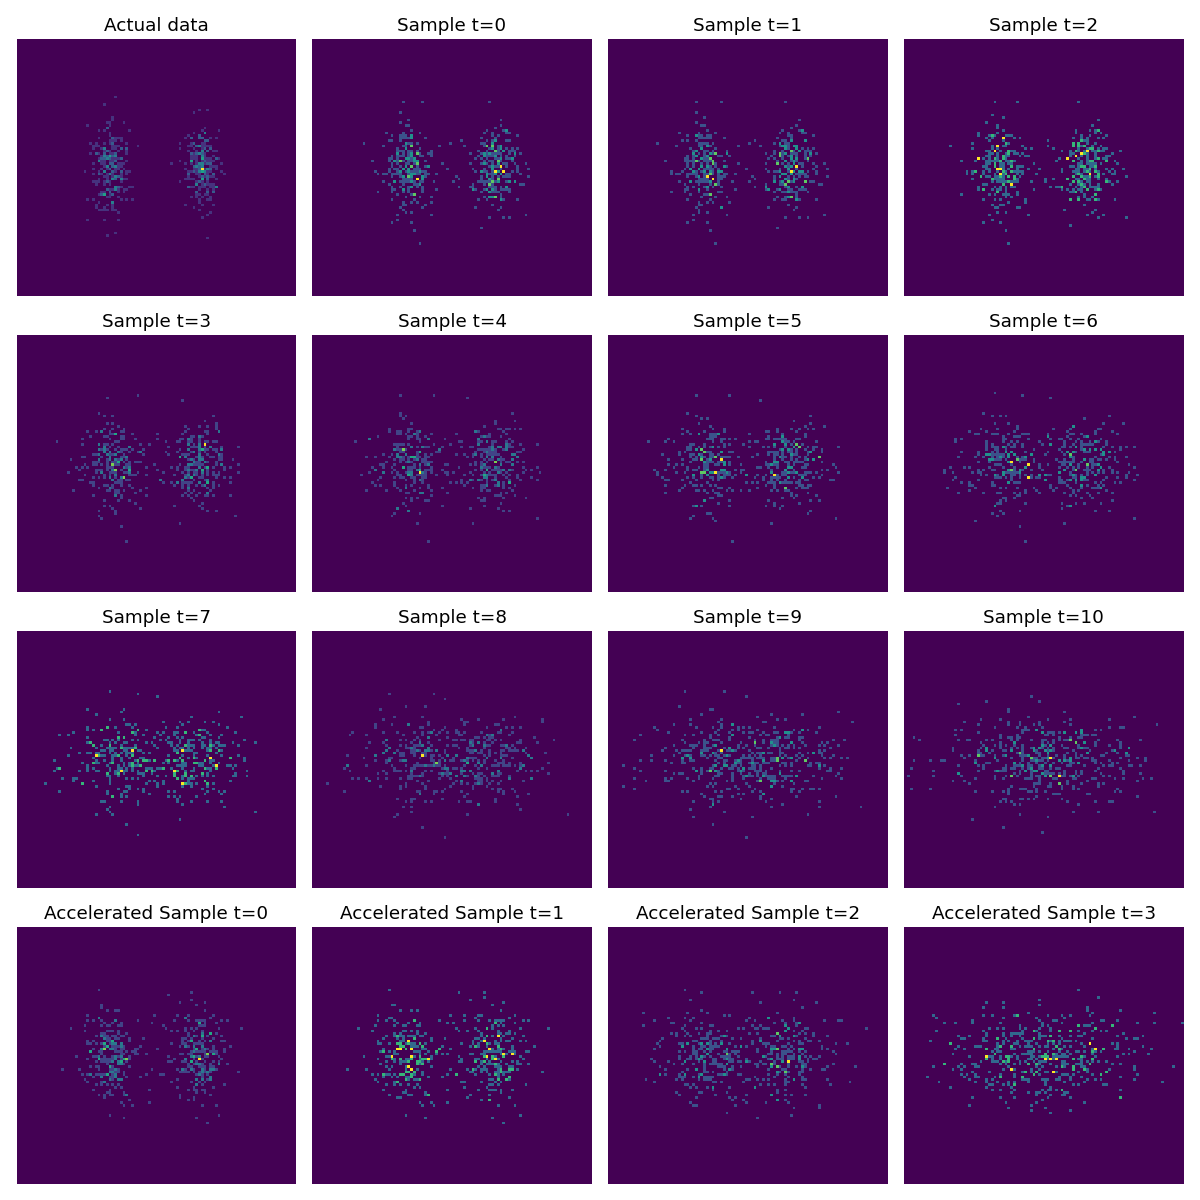
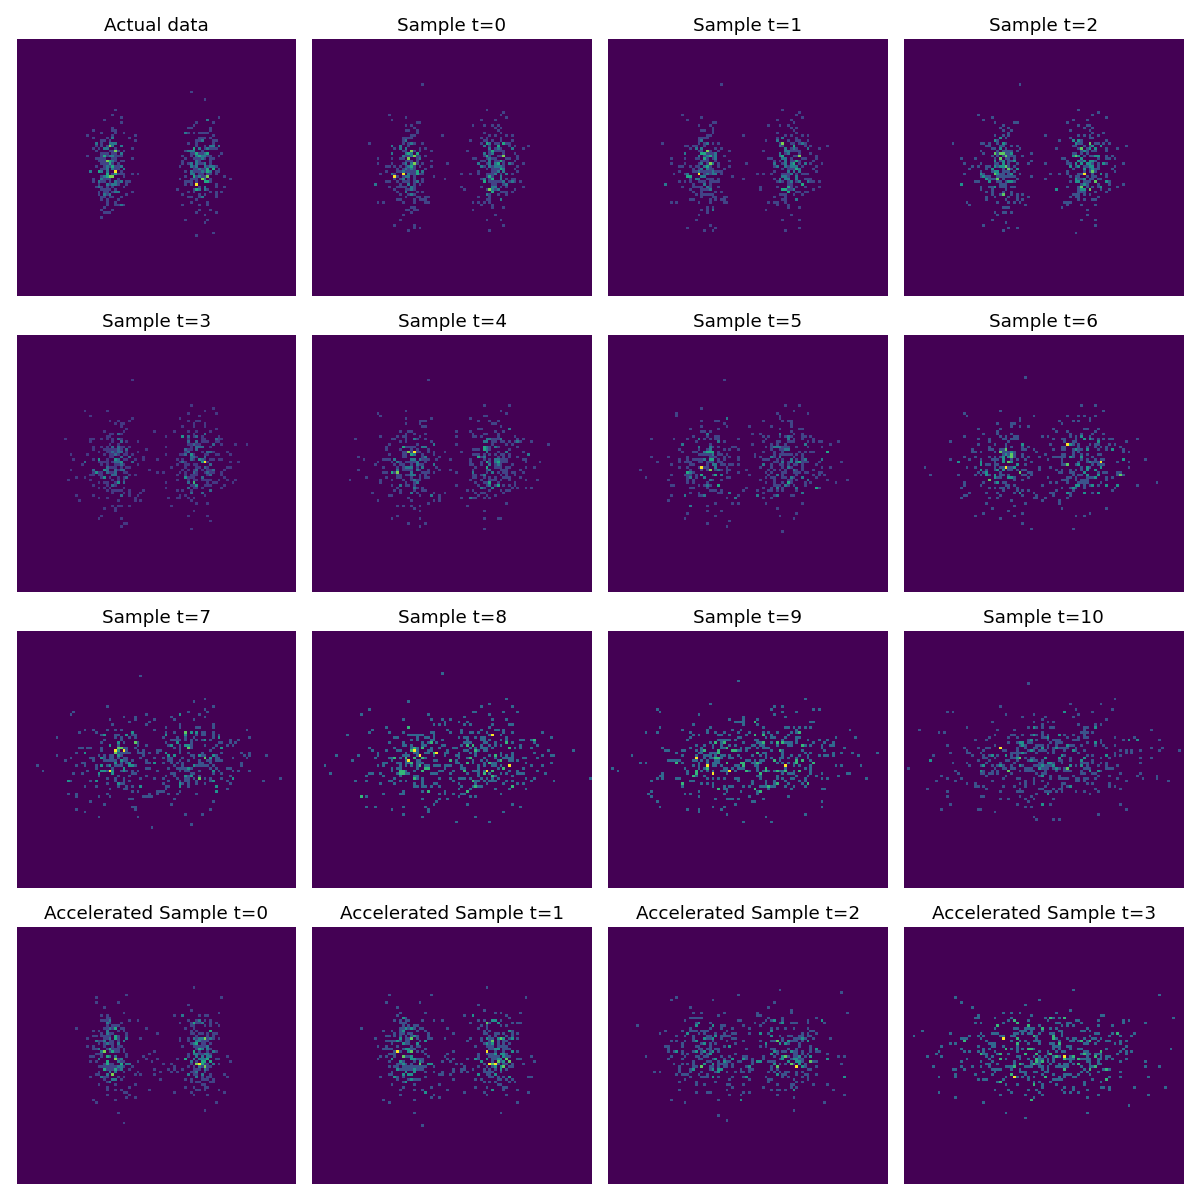
Bump to DDIM formulation by default.

diff --git a/src/models.py b/src/models.py
@@ -1,6 +1,5 @@
 from dataclasses import dataclass
 import math
-from typing import Tuple
 
 import torch
 import torch.nn as nn
@@ -11,51 +10,61 @@ from src.blocks import unsqueeze_to
 @dataclass(frozen=True)
 class DiffusionModelConfig:
 
+    num_timesteps: int
     target_type: str = "pred_eps"
-    sigma_type: str = "upper_bound"
-    noise_schedule_type: str = "linear"
+    noise_schedule_type: str = "cosine"
     loss_type: str = "l2"
+    gamma_type: float = "ddim"
 
     def __post_init__(self):
+        assert self.num_timesteps > 0
         assert self.target_type in ("pred_x_0", "pred_eps", "pred_v")
-        assert self.sigma_type in ("lower_bound", "upper_bound")
         assert self.noise_schedule_type in ("linear", "cosine")
         assert self.loss_type in ("l1", "l2")
+        assert self.gamma_type in ("ddim", "ddpm")
 
 
 class DiffusionModel(nn.Module):
 
     def __init__(
         self,
-        num_timesteps: int,
-        input_shape: Tuple,
+        input_shape: tuple,
         nn_module: nn.Module,
         config: DiffusionModelConfig,
     ):
         super().__init__()
         self.input_shape = input_shape
-        self.num_timesteps = num_timesteps
         self.nn_module = nn_module
+        self.num_timesteps = config.num_timesteps
         self.target_type = config.target_type
-        self.sigma_type = config.sigma_type
+        self.gamma_type = config.gamma_type
         self.noise_schedule_type = config.noise_schedule_type
         self.loss_type = config.loss_type
 
         # Input shape must be either (c,) or (c, h, w)
         assert len(input_shape) in (1, 3)
 
+        # Construct the noise schedule
         if self.noise_schedule_type == "linear":
-            beta = torch.linspace(1e-4, 2e-2, num_timesteps + 1)
-        if self.noise_schedule_type == "cosine":
-            rng = torch.arange(num_timesteps + 1)
-            f_t = torch.cos((rng / num_timesteps + 0.008) / (1 + 0.008) * math.pi / 2) ** 2
-            bar_alpha = f_t / f_t[0]
-            beta = torch.zeros_like(bar_alpha)
-            beta[1:] = (1 - (bar_alpha[1:] / bar_alpha[:-1])).clip(0, 0.999)
+            beta_t = torch.linspace(1e-4, 2e-2, self.num_timesteps + 1)
+            alpha_t = torch.cumprod(1 - beta_t, dim=0) ** 0.5
+        elif self.noise_schedule_type == "cosine":
+            linspace = torch.linspace(0, 1, self.num_timesteps + 1)
+            f_t = torch.cos((linspace + 0.008) / (1 + 0.008) * math.pi / 2) ** 2
+            bar_alpha_t = f_t / f_t[0]
+            beta_t = torch.zeros_like(bar_alpha_t)
+            beta_t[1:] = (1 - (bar_alpha_t[1:] / bar_alpha_t[:-1])).clamp(min=0, max=0.999)
+            alpha_t = torch.cumprod(1 - beta_t, dim=0) ** 0.5
+        else:
+            raise AssertionError(f"Invalid {self.noise_schedule_type=}.")
 
-        # These tensors are shape (num_timesteps + 1, 1, 1, 1) if 2D or (num_timesteps + 1, 1) if 1D
-        beta = unsqueeze_to(beta, len(self.input_shape) + 1)
-        self.register_buffer("bar_alpha", torch.cumprod(1 - beta, dim=0))
+        # These tensors are shape (num_timesteps + 1, *self.input_shape)
+        # For example, 2D: (num_timesteps + 1, 1, 1, 1)
+        #              1D: (num_timesteps + 1, 1)
+        alpha_t = unsqueeze_to(alpha_t, len(self.input_shape) + 1)
+        sigma_t = (1 - alpha_t ** 2).clamp(min=0) ** 0.5
+        self.register_buffer("alpha_t", alpha_t)
+        self.register_buffer("sigma_t", sigma_t)
 
     def loss(self, x):
         """
@@ -66,96 +75,89 @@ class DiffusionModel(nn.Module):
         bsz = len(x)
         t_sample = torch.randint(1, self.num_timesteps + 1, size=(bsz,), device=x.device)
         eps = torch.randn_like(x)
-        x_t = (
-            torch.sqrt(self.bar_alpha[t_sample]) * x +
-            torch.sqrt(1 - self.bar_alpha[t_sample]) * eps
-        )
+        x_t = self.alpha_t[t_sample] * x + self.sigma_t[t_sample] * eps
         pred_target = self.nn_module(x_t, t_sample)
+
         if self.target_type == "pred_x_0":
             gt_target = x
         elif self.target_type == "pred_eps":
             gt_target = eps
         elif self.target_type == "pred_v":
-            gt_target = (
-                torch.sqrt(self.bar_alpha[t_sample]) * eps -
-                torch.sqrt(1 - self.bar_alpha[t_sample]) * x
-            )
+            gt_target = self.alpha_t[t_sample] * eps - self.sigma_t[t_sample] * x
         else:
             raise AssertionError(f"Invalid {self.target_type=}.")
+
         if self.loss_type == "l2":
             loss = 0.5 * (gt_target - pred_target) ** 2
         elif self.loss_type == "l1":
             loss = torch.abs(gt_target - pred_target)
         else:
             raise AssertionError(f"Invalid {self.loss_type=}.")
+
         return loss
 
     @torch.no_grad()
-    def sample(self, bsz, device, sampling_timesteps=None):
+    def sample(self, bsz, device, num_sampling_timesteps=None):
         """
         Parameters
         ----------
-        sampling_timesteps: if unspecified, defaults to self.num_timesteps
+        num_sampling_timesteps: int. If unspecified, defaults to self.num_timesteps.
 
         Returns
         -------
-        samples: (sampling_timesteps + 1, bsz, *input_shape)
+        samples: (num_sampling_timesteps + 1, bsz, *self.input_shape)
             index 0 corresponds to x_0
             index t corresponds to x_t
             last index corresponds to random noise
         """
-        sampling_timesteps = self.num_timesteps if sampling_timesteps is None else sampling_timesteps
-        assert 1 <= sampling_timesteps <= self.num_timesteps
+        num_sampling_timesteps = num_sampling_timesteps or self.num_timesteps
+        assert 1 <= num_sampling_timesteps <= self.num_timesteps
 
         x = torch.randn((bsz, *self.input_shape), device=device)
         t_start = torch.empty((bsz,), dtype=torch.int64, device=device)
         t_end = torch.empty((bsz,), dtype=torch.int64, device=device)
 
-        subseq = torch.linspace(self.num_timesteps, 0, sampling_timesteps + 1).round()
-        samples = torch.zeros((sampling_timesteps + 1, bsz, *self.input_shape), device=device)
+        subseq = torch.linspace(self.num_timesteps, 0, num_sampling_timesteps + 1).round()
+        samples = torch.empty((num_sampling_timesteps + 1, bsz, *self.input_shape), device=device)
         samples[-1] = x
 
+        # Note that t_start > t_end we're traversing pairwise down subseq.
+        # For example, subseq here could be [500, 400, 300, 200, 100, 0]
         for idx, (scalar_t_start, scalar_t_end) in enumerate(zip(subseq[:-1], subseq[1:])):
 
             t_start.fill_(scalar_t_start)
             t_end.fill_(scalar_t_end)
-            noise = torch.randn_like(x) if scalar_t_end > 0 else torch.zeros_like(x)
+            noise = torch.zeros_like(x) if scalar_t_end == 0 else torch.randn_like(x)
 
-            if self.target_type == "pred_x_0":
-                pred_x_0 = self.nn_module(x, t_start)
-            elif self.target_type == "pred_eps":
-                pred_eps = self.nn_module(x, t_start)
-                pred_x_0 = (
-                    x - torch.sqrt(1 - self.bar_alpha[t_start]) * pred_eps
-                ) / torch.sqrt(self.bar_alpha[t_start])
-            elif self.target_type == "pred_v":
-                pred_v = self.nn_module(x, t_start)
-                pred_x_0 = (
-                    torch.sqrt(self.bar_alpha[t_start]) * x -
-                    torch.sqrt(1 - self.bar_alpha[t_start]) * pred_v
+            if self.gamma_type == "ddim":
+                gamma_t = 0.0
+            elif self.gamma_type == "ddpm":
+                gamma_t = (
+                    self.sigma_t[t_end] / self.sigma_t[t_start] *
+                    (1 - self.alpha_t[t_start] ** 2 / self.alpha_t[t_end] ** 2) ** 0.5
                 )
+            else:
+                raise AssertionError(f"Invalid {self.gamma_type=}.")
+
+            nn_out = self.nn_module(x, t_start)
+            if self.target_type == "pred_x_0":
+                pred_x_0 = nn_out
+                pred_eps = (x - self.alpha_t[t_start] * nn_out) / self.sigma_t[t_start]
+            elif self.target_type == "pred_eps":
+                pred_x_0 = (x - self.sigma_t[t_start] * nn_out) / self.alpha_t[t_start]
+                pred_eps = nn_out
+            elif self.target_type == "pred_v":
+                pred_x_0 = self.alpha_t[t_start] * x - self.sigma_t[t_start] * nn_out
+                pred_eps = self.sigma_t[t_start] * x + self.alpha_t[t_start] * nn_out
             else:
                 raise AssertionError(f"Invalid {self.target_type=}.")
 
-            # Forward model posterior mean given x_0, x_t
             x = (
-                torch.sqrt(self.bar_alpha[t_end]) * (1 - self.bar_alpha[t_start] / self.bar_alpha[t_end]) * pred_x_0 +
-                (1 - self.bar_alpha[t_end]) * torch.sqrt(self.bar_alpha[t_start] / self.bar_alpha[t_end]) * x
-            ) / (1 - self.bar_alpha[t_start])
-
-            # Forward model posterior noise
-            if scalar_t_end == 0:
-                pass
-            elif self.sigma_type == "upper_bound":
-                x += torch.sqrt(1 - self.bar_alpha[t_start] / self.bar_alpha[t_end]) * noise
-            elif self.sigma_type == "lower_bound":
-                x += torch.sqrt(
-                    (1 - self.bar_alpha[t_start] / self.bar_alpha[t_end]) *
-                    (1 - self.bar_alpha[t_end]) / (1 - self.bar_alpha[t_start])
-                ) * noise
-            else:
-                raise AssertionError(f"Invalid {self.sigma_type=}.")
-
+                (self.alpha_t[t_end] * pred_x_0) +
+                (self.sigma_t[t_end] ** 2 - gamma_t ** 2).clamp(min=0) ** 0.5 * pred_eps +
+                (gamma_t * noise)
+            )
             samples[-1 - idx - 1] = x
+
         return samples
 

diff --git a/examples/ex_mnist.py b/examples/ex_mnist.py
@@ -17,7 +17,7 @@ if __name__ == "__main__":
     argparser = ArgumentParser()
     argparser.add_argument("--iterations", default=2000, type=int)
     argparser.add_argument("--batch-size", default=512, type=int)
-    argparser.add_argument("--device", default="cuda", type=str, choices=("cuda", "cpu"))
+    argparser.add_argument("--device", default="cuda", type=str, choices=("cuda", "cpu", "mps"))
     args = argparser.parse_args()
 
     logging.basicConfig(level=logging.INFO)
@@ -39,12 +39,12 @@ if __name__ == "__main__":
 
     nn_module = UNet(1, 128, (1, 2, 4, 8))
     model = DiffusionModel(
-        num_timesteps=500,
         nn_module=nn_module,
         input_shape=(1, 32, 32,),
         config=DiffusionModelConfig(
+            num_timesteps=500,
             target_type="pred_x_0",
-            sigma_type="upper_bound",
+            gamma_type="ddim",
             noise_schedule_type="cosine",
         ),
     )
@@ -67,7 +67,7 @@ if __name__ == "__main__":
 
     model.eval()
 
-    samples = model.sample(bsz=64, sampling_timesteps=None, device=args.device).cpu().numpy()
+    samples = model.sample(bsz=64, num_sampling_timesteps=None, device=args.device).cpu().numpy()
     samples = rearrange(samples, "t b () h w -> t b (h w)")
     samples = samples * input_sd + input_mean
     x_vis = x[:64] * input_sd + input_mean
@@ -93,7 +93,4 @@ if __name__ == "__main__":
         row, col = i // ncols, i % ncols
         raster[32 * row : 32 * (row + 1), 32 * ncols * 5 + 32 * col : 32 * ncols * 5 + 32 * (col + 1)] = samples[0][i].reshape(32, 32)
 
-    plt.imshow(raster, vmin=0, vmax=255)
-    plt.axis("off")
-    plt.tight_layout()
-    plt.savefig("./examples/ex_mnist.png")
+    plt.imsave("./examples/ex_mnist.png", raster, vmin=0, vmax=255)

diff --git a/examples/ex_2d.py b/examples/ex_2d.py
@@ -33,10 +33,14 @@ if __name__ == "__main__":
 
     nn_module = FFN(in_dim=2, embed_dim=16)
     model = DiffusionModel(
-        num_timesteps=10,
         nn_module=nn_module,
         input_shape=(2,),
-        config=DiffusionModelConfig(),
+        config=DiffusionModelConfig(
+            num_timesteps=10,
+            noise_schedule_type="linear",
+            target_type="pred_eps",
+            gamma_type="ddpm",
+        ),
     )
 
     optimizer = optim.Adam(model.parameters(), lr=0.001)
@@ -64,7 +68,7 @@ if __name__ == "__main__":
         plot_data(samples[t])
         plt.title(f"Sample t={t}")
 
-    samples = model.sample(bsz=512, device="cpu", sampling_timesteps=3)
+    samples = model.sample(bsz=512, device="cpu", num_sampling_timesteps=3)
 
     for t in range(4):
         plt.subplot(4, 4, t + 12 + 1)
@@ -90,7 +94,7 @@ if __name__ == "__main__":
 
         pred_eps = pred_eps.numpy().reshape(30, 20, 2)
         one_axes = axes[(scalar_t + 1) // 4, (scalar_t + 1) % 4]
-        one_axes.quiver(x_grid, y_grid, -pred_eps[..., 0], -pred_eps[..., 1])
+        one_axes.quiver(x_grid.numpy(), y_grid.numpy(), -pred_eps[..., 0], -pred_eps[..., 1])
         one_axes.axis("off")
         one_axes.set_title(f"Score {scalar_t}")
 

diff --git a/examples/ex_coins.py b/examples/ex_coins.py
@@ -13,7 +13,8 @@ from src.models import DiffusionModel, DiffusionModelConfig
 def gen_data(n=512, d=48):
     x = np.vstack([
         np.random.permutation(np.r_[np.ones(3 * d // 4), np.zeros(d // 4)])
-    ] for _ in range(n))
+        for _ in range(n)
+    ])
     assert np.all(np.sum(x, axis=1) == 3 * d // 4)
     x = x * 2 - 1
     return x.astype(np.float32)
@@ -31,12 +32,12 @@ if __name__ == "__main__":
 
     nn_module = FFN(in_dim=48, embed_dim=96)
     model = DiffusionModel(
-        num_timesteps=100,
         nn_module=nn_module,
         input_shape=(48,),
         config=DiffusionModelConfig(
+            num_timesteps=100,
             target_type="pred_x_0",
-            sigma_type="upper_bound",
+            gamma_type="ddim",
             noise_schedule_type="cosine",
         ),
     )

diff --git a/README.md b/README.md
@@ -10,8 +10,6 @@ So instead of putting notes here, they've been moved to my website.
 
 [[**This blog post**]](https://www.tonyduan.com/diffusion.html) explains the intuition and derivations behind diffusion.
 
-The code here likely won't make much sense without reading it.
-
 ---
 
 This codebase provides a *minimalist* re-production of the MNIST example below.
@@ -25,8 +23,6 @@ It clocks in at well under 500 LOC.
 (Left: MNIST groundtruth. Right: MNIST sampling starting from random noise).
 
 Another simple example implemented in this repository is diffusion for a mixture of two Gaussians below.
-
-We can validate that accelerated sampling is much faster but maintains reasonable results.
 
 ![2D](examples/ex_2d.png)
 
